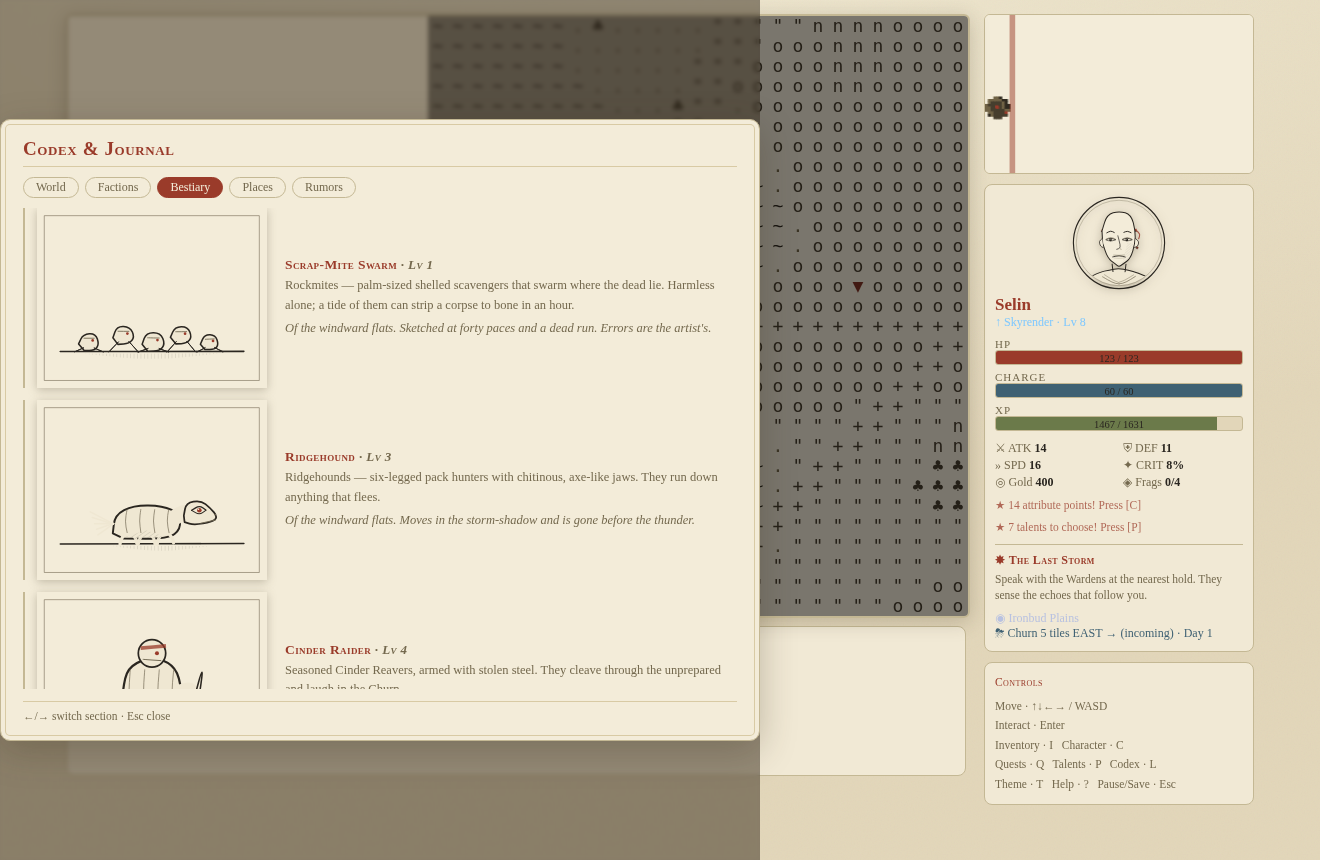
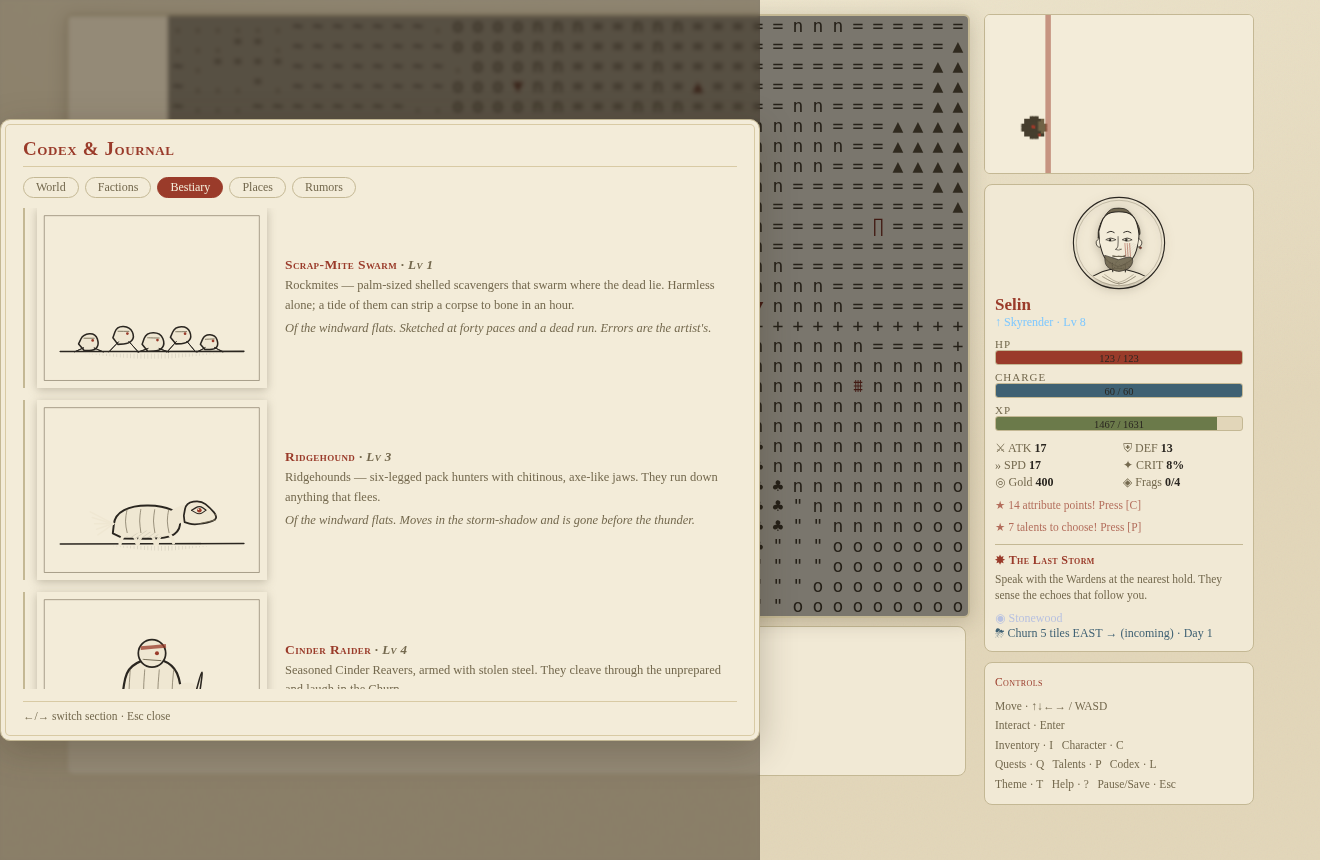
Character appearance: a premade-look gallery in creation
New "Choose your face" step in character creation, between Order and
weapon. It presents a gallery of premade generative looks the player
picks from, with options to customise the set:

- Eight premade portrait options per set, drawn from the generative ink
  engine in the chosen Order's role/accent; a large live preview of the
  selection.
- Controls: presentation (Either / Feminine / Masculine), age (Any /
  Young / Prime / Weathered / Old), and "↻ More faces" to reroll a fresh
  set. Keyboard (←/→ pick, F look, G age, Tab reroll, Enter confirm) and
  full touch (tap a face to select, on-screen Look/Age/reroll/Confirm).
- The chosen look is stored on the player as { seed, fem, age } and now
  drives every portrait — HUD frontispiece, character sheet, dialogue —
  and persists through saves; the name step previews it too.

Wiring: player.look + portrait helpers (ui.heroPortrait, screens
playerPortrait) read it; chargen steps renumbered (order, appearance,
weapon, name) with _cursorRef + touch updated; styles for the gallery.
Tests updated for the extra step (+ assertions that the gallery shows
and a face can be picked by key and by tap). All suites green: 837
logic, full browser, mobile, zero console errors. look-shots.js
captures the gallery.

Claude-Session: https://claude.ai/code/session_012JuAjoBx2YqM5W9EUw89GY

diff --git a/src/screens.js b/src/screens.js
@@ -72,7 +72,7 @@
     const o = this.overlay; if (!o) return null;
     if (o.type === 'chargen') {
       if (o.step === 0) return { get: function () { return o.orderIdx; }, set: function (v) { o.orderIdx = v; } };
-      if (o.step === 1) return { get: function () { return o.weaponIdx; }, set: function (v) { o.weaponIdx = v; } };
+      if (o.step === 2) return { get: function () { return o.weaponIdx; }, set: function (v) { o.weaponIdx = v; } };
       return null;
     }
     if (typeof o.cursor === 'number') return { get: function () { return o.cursor; }, set: function (v) { o.cursor = v; } };
@@ -152,8 +152,9 @@
     return TLU.Art.portrait(seed, opts || {});
   }
   function playerPortrait(p, opts) {
-    return portraitSVG(p.artSeed || p.name, Object.assign({
-      role: ORDER_ROLE[p.orderId] || 'explorer', accent: '#9a3b2a', fem: p.fem, age: 'prime',
+    const look = p.look || { seed: p.artSeed || p.name, fem: p.fem, age: 'prime' };
+    return portraitSVG(look.seed, Object.assign({
+      role: ORDER_ROLE[p.orderId] || 'explorer', accent: '#9a3b2a', fem: look.fem, age: look.age || 'prime',
     }, opts || {}));
   }
   function companionPortrait(c, opts) {
@@ -163,6 +164,23 @@
   function npcPortrait(npc, opts) {
     return portraitSVG('npc:' + npc.name + ':' + npc.archKey, Object.assign({ role: ARCH_ROLE[npc.archKey] || 'folk', accent: npc.arch.color }, opts || {}));
   }
+  // build the gallery of premade looks for chargen, given current options
+  function lookOptions(o) {
+    const orderKey = o.orderKeys[o.orderIdx];
+    const role = ORDER_ROLE[orderKey] || 'channeler';
+    const accent = TLU.LORE.orders[orderKey].color;
+    const AGES = ['young', 'prime', 'prime', 'weathered', 'old'];
+    const out = [];
+    for (let i = 0; i < 8; i++) {
+      const seed = 'look:' + o.seedStr + ':' + o.lookSet + ':' + i;
+      const r = new TLU.RNG(seed + ':meta');
+      const fem = o.lookPres === 'fem' ? true : o.lookPres === 'masc' ? false : r.chance(0.5);
+      const age = o.lookAge === 'any' ? r.pick(AGES) : o.lookAge;
+      out.push({ seed: seed, fem: fem, age: age, role: role, accent: accent });
+    }
+    return out;
+  }
+
   // give a companion a generated face's traits so its bio matches the drawing
   function companionTraits(c) {
     const role = TLU.Art.PORTRAIT_ROLES[c.role] ? c.role : 'folk';
@@ -228,10 +246,36 @@
           '<div class="cg-ord-desc">' + esc(lore.desc || ord.blurb) + '</div>' +
           '<div class="cg-ord-att">✦ Attunements · ' + ord.attune.join(' &amp; ') + '</div></div></div>';
       } else if (o.step === 1) {
+        // ---- Appearance: a gallery of premade looks ----
+        body += '<div class="cg-q">Choose your face.</div>';
+        const looks = lookOptions(o);
+        if (o.lookIdx >= looks.length) o.lookIdx = 0;
+        const sel = looks[o.lookIdx];
+        const big = portraitSVG(sel.seed, { role: sel.role, accent: sel.accent, fem: sel.fem, age: sel.age });
+        body += '<div class="cg-look"><div class="cg-look-big pf">' + big + '</div>';
+        body += '<div class="cg-look-side">';
+        const presLabel = { any: 'Either', fem: 'Feminine', masc: 'Masculine' }[o.lookPres];
+        const ageLabel = { any: 'Any age', young: 'Young', prime: 'Prime', weathered: 'Weathered', old: 'Old' }[o.lookAge];
+        body += '<div class="cg-look-ctrl touch-btn" data-key="f">Look · <b>' + presLabel + '</b></div>';
+        body += '<div class="cg-look-ctrl touch-btn" data-key="g">Age · <b>' + ageLabel + '</b></div>';
+        body += '<div class="cg-look-ctrl touch-btn" data-key="Tab">↻ More faces</div>';
+        body += '<div class="cg-look-ctrl cg-confirm touch-btn" data-key="Enter">Confirm ▸</div>';
+        body += '</div></div>';
+        body += '<div class="cg-look-grid">';
+        looks.forEach(function (lk, i) {
+          const th = portraitSVG(lk.seed, { role: lk.role, accent: lk.accent, fem: lk.fem, age: lk.age, ring: true });
+          body += '<div class="cg-thumb' + (i === o.lookIdx ? ' sel' : '') + '" data-look="' + i + '">' + th + '</div>';
+        });
+        body += '</div>';
+        body += '<div class="menu-foot">←/→ pick a face · [F] look · [G] age · [Tab] reroll · Enter confirm</div>';
+      } else if (o.step === 2) {
         body += '<div class="cg-q">Choose your weapon focus:</div>';
         body += UI.renderMenu({ items: o.weapons.map(function (w) { return { label: w[1] }; }), cursor: o.weaponIdx });
       } else {
         body += '<div class="cg-q">Your name, Kindled?</div>';
+        const sel2 = o.look || lookOptions(o)[o.lookIdx];
+        body += '<div class="folio-figrow" style="justify-content:center"><div class="pf pf-sm">' +
+          portraitSVG(sel2.seed, { role: sel2.role, accent: sel2.accent, fem: sel2.fem, age: sel2.age }) + '</div></div>';
         body += '<div class="cg-name">' + esc(o.name) + ' <span class="dimk">(Tab to reroll)</span></div>';
         const ord = TLU.LORE.orders[o.orderKeys[o.orderIdx]];
         body += '<div class="cg-summary">' + ord.glyph + ' ' + ord.name + ' · ' + o.weapons[o.weaponIdx][1] + '</div>';
@@ -246,14 +290,27 @@
         menuNav({ get cursor() { return o.orderIdx; }, set cursor(v) { o.orderIdx = v; } }, k, o.orderKeys.length,
           function () { o.step = 1; }, function () { g.openTitle(); });
       } else if (o.step === 1) {
+        // appearance gallery
+        const N = 8;
+        if (k === 'ArrowLeft' || k === 'a' || k === 'h') o.lookIdx = (o.lookIdx + N - 1) % N;
+        else if (k === 'ArrowRight' || k === 'd' || k === 'l') o.lookIdx = (o.lookIdx + 1) % N;
+        else if (k === 'ArrowUp' || k === 'w') o.lookIdx = (o.lookIdx + N - 4) % N;
+        else if (k === 'ArrowDown' || k === 's') o.lookIdx = (o.lookIdx + 4) % N;
+        else if (k === 'f' || k === 'F') o.lookPres = { any: 'fem', fem: 'masc', masc: 'any' }[o.lookPres];
+        else if (k === 'g' || k === 'G') o.lookAge = { any: 'young', young: 'prime', prime: 'weathered', weathered: 'old', old: 'any' }[o.lookAge];
+        else if (k === 'Tab') { o.lookSet++; }
+        else if (k === 'Enter' || k === ' ') { o.look = lookOptions(o)[o.lookIdx]; o.step = 2; }
+        else if (k === 'Escape') { o.step = 0; }
+      } else if (o.step === 2) {
         menuNav({ get cursor() { return o.weaponIdx; }, set cursor(v) { o.weaponIdx = v; } }, k, o.weapons.length,
-          function () { o.step = 2; }, function () { o.step = 0; });
+          function () { o.step = 3; }, function () { o.step = 1; });
       } else {
         if (k === 'Tab') { o.name = TLU.genName(new TLU.RNG('name' + Math.floor(performance.now()))); }
         else if (k === 'Enter' || k === ' ') {
-          g.beginGame({ seed: o.seedStr, name: o.name, order: o.orderKeys[o.orderIdx], weaponSkill: o.weapons[o.weaponIdx][0] });
+          if (!o.look) o.look = lookOptions(o)[o.lookIdx];
+          g.beginGame({ seed: o.seedStr, name: o.name, order: o.orderKeys[o.orderIdx], weaponSkill: o.weapons[o.weaponIdx][0], look: { seed: o.look.seed, fem: o.look.fem, age: o.look.age } });
           return;
-        } else if (k === 'Escape') o.step = 1;
+        } else if (k === 'Escape') o.step = 2;
       }
       g.render();
     },

diff --git a/test/look-shots.js b/test/look-shots.js
@@ -1,0 +1,33 @@
+/* Capture the character-appearance gallery (chargen step 1). */
+const { chromium } = require('playwright-core');
+const http = require('http');
+const fs = require('fs');
+const path = require('path');
+const ROOT = path.join(__dirname, '..');
+const MIME = { '.html': 'text/html', '.js': 'text/javascript', '.css': 'text/css', '.png': 'image/png' };
+function serve() { return new Promise((r) => { const s = http.createServer((req, res) => { let p = decodeURIComponent(req.url.split('?')[0]); if (p === '/') p = '/index.html'; const fp = path.join(ROOT, p); if (!fp.startsWith(ROOT) || !fs.existsSync(fp)) { res.writeHead(404); res.end(); return; } res.writeHead(200, { 'Content-Type': MIME[path.extname(fp)] || 'text/plain' }); res.end(fs.readFileSync(fp)); }); s.listen(0, () => r(s)); }); }
+const OUT = path.join(ROOT, 'assets', 'design');
+
+(async () => {
+  const srv = await serve(); const port = srv.address().port;
+  const browser = await chromium.launch({ executablePath: '/opt/pw-browsers/chromium-1194/chrome-linux/chrome', args: ['--no-sandbox'] });
+  const page = await browser.newPage({ viewport: { width: 1100, height: 760 }, deviceScaleFactor: 2 });
+  const errs = []; page.on('pageerror', e => errs.push(e.message)); page.on('console', m => { if (m.type() === 'error') errs.push(m.text()); });
+  await page.goto(`http://localhost:${port}/index.html`, { waitUntil: 'networkidle' });
+  await page.evaluate(() => localStorage.clear());
+  await page.reload({ waitUntil: 'networkidle' });
+  await page.waitForTimeout(200);
+
+  // jump to chargen, appearance step
+  await page.evaluate(() => { window.GAME.startChargen(); window.GAME.overlay.step = 1; window.GAME.render(); });
+  await page.waitForTimeout(150);
+  await page.screenshot({ path: path.join(OUT, 'look-gallery.png') });
+
+  // a different Order + feminine preset + a different selected face
+  await page.evaluate(() => { const o = window.GAME.overlay; o.orderIdx = 3; o.lookPres = 'fem'; o.lookIdx = 5; window.GAME.render(); });
+  await page.waitForTimeout(120);
+  await page.screenshot({ path: path.join(OUT, 'look-gallery2.png') });
+
+  console.log(errs.length ? ('ERRORS:\n' + errs.slice(0, 8).join('\n')) : 'no errors');
+  await browser.close(); srv.close();
+})().catch(e => { console.error(e); process.exit(1); });

diff --git a/styles.css b/styles.css
@@ -430,3 +430,19 @@ body.theme-folio .annals-code { background:#efe7d0; }
 .cg-ord-tag { color:var(--dim); font-style:italic; font-size:13px; margin-top:1px; }
 .cg-ord-desc { font-size:14px; line-height:1.5; margin-top:7px; }
 .cg-ord-att { margin-top:9px; font-size:13px; color:var(--storm); font-variant:small-caps; letter-spacing:.5px; }
+
+/* ---- appearance gallery (chargen step) ---- */
+.cg-look { display:flex; gap:18px; align-items:center; justify-content:center; margin:10px 0 6px; }
+.cg-look-big { width:150px; flex:none; }
+.cg-look-big .tlu-portrait { width:150px; }
+.cg-look-side { display:flex; flex-direction:column; gap:8px; min-width:160px; }
+.cg-look-ctrl { border:1px solid var(--border); border-radius:8px; padding:6px 12px; font-size:13px;
+  color:var(--dim); cursor:pointer; text-align:left; background:var(--panel); user-select:none; }
+.cg-look-ctrl b { color:var(--ink); }
+.cg-look-ctrl:hover { border-color:var(--gold); }
+.cg-confirm { text-align:center; color:var(--gold); font-variant:small-caps; letter-spacing:1px; border-color:var(--gold); }
+.cg-look-grid { display:grid; grid-template-columns:repeat(8, 1fr); gap:6px; margin:8px auto 4px; max-width:560px; }
+.cg-thumb { border:2px solid transparent; border-radius:8px; cursor:pointer; overflow:hidden; line-height:0; }
+.cg-thumb .tlu-portrait { width:100%; }
+.cg-thumb.sel { border-color:var(--gold); background:rgba(154,59,42,.12); }
+@media (max-width:560px){ .cg-look-grid { grid-template-columns:repeat(4, 1fr); } .cg-look { flex-direction:column; } }

diff --git a/src/player.js b/src/player.js
@@ -15,9 +15,16 @@
       name: opts.name || 'Wanderer',
       orderId: opts.order || 'skyrender',
       order: order,
-      // stable seed for the generative ink portrait — outlives saves
-      artSeed: (opts.name || 'Wanderer') + '|' + (opts.order || 'skyrender') + '|' + (opts.seed || ''),
-      fem: new TLU.RNG('fem:' + (opts.name || 'Wanderer') + (opts.seed || '')).chance(0.5),
+      // chosen appearance for the generative ink portrait (outlives saves).
+      // look = { seed, fem, age }; falls back to a name-derived default.
+      look: opts.look || {
+        seed: (opts.name || 'Wanderer') + '|' + (opts.order || 'skyrender') + '|' + (opts.seed || ''),
+        fem: new TLU.RNG('fem:' + (opts.name || 'Wanderer') + (opts.seed || '')).chance(0.5),
+        age: 'prime',
+      },
+      // legacy alias kept for older saves / call sites
+      artSeed: (opts.look && opts.look.seed) || ((opts.name || 'Wanderer') + '|' + (opts.order || 'skyrender') + '|' + (opts.seed || '')),
+      fem: opts.look ? !!opts.look.fem : new TLU.RNG('fem:' + (opts.name || 'Wanderer') + (opts.seed || '')).chance(0.5),
       level: 1, xp: 0, xpNext: TLU.Skills.levelXpFor(1),
       // core attributes (raised on level-up)
       attr: { might: 5, finesse: 5, focus: 5, endurance: 5 },

diff --git a/src/touch.js b/src/touch.js
@@ -76,6 +76,9 @@
       if (target.closest('[data-skip]')) game.endIntro(); else game.advanceIntro();
       return true;
     }
+    // chargen appearance gallery: tap a face to select it
+    const lk = target.closest('[data-look]');
+    if (lk && game.overlay) { game.overlay.lookIdx = parseInt(lk.getAttribute('data-look'), 10); game.render(); return true; }
     const mi = target.closest('[data-mi]');
     if (mi && !mi.classList.contains('disabled')) { game.touchMenuSelect(parseInt(mi.getAttribute('data-mi'), 10)); return true; }
     const tab = target.closest('.cx-tab[data-cxtab]');
@@ -84,7 +87,7 @@
     if (en) { game.touchEnemy(parseInt(en.getAttribute('data-eidx'), 10)); return true; }
     // tap-to-advance for text screens (dialog, help, chargen name step)
     const o = game.overlay;
-    if (o && (o.type === 'dialog' || o.type === 'help' || o.type === 'landmark' || o.type === 'echo' || (o.type === 'chargen' && o.step === 2))) { game.key('Enter'); return true; }
+    if (o && (o.type === 'dialog' || o.type === 'help' || o.type === 'landmark' || o.type === 'echo' || (o.type === 'chargen' && o.step === 3))) { game.key('Enter'); return true; }
     return false;
   }
 

diff --git a/src/game.js b/src/game.js
@@ -59,6 +59,8 @@
       name: TLU.genName(new TLU.RNG('name' + this.turnCount)),
       orderKeys: Object.keys(TLU.LORE.orders),
       orderIdx: 0,
+      // appearance step: a gallery of premade looks + options
+      lookSet: 0, lookIdx: 0, lookPres: 'any', lookAge: 'any', look: null,
       weapons: [['blades', 'Sword & Dagger'], ['blunt', 'Mace & Hammer'], ['polearm', 'Spear & Glaive'], ['archery', 'Bow']],
       weaponIdx: 0,
       seedStr: 'aurenmark-' + (Math.floor(performance.now()) ^ 0x5bd1e995),
@@ -68,7 +70,7 @@
   Game.prototype.beginGame = function (cfg) {
     this.seed = cfg.seed;
     this.world = TLU.World.generate(cfg.seed, {});
-    this.player = TLU.Player.newPlayer({ name: cfg.name, order: cfg.order, weaponSkill: cfg.weaponSkill, seed: cfg.seed });
+    this.player = TLU.Player.newPlayer({ name: cfg.name, order: cfg.order, weaponSkill: cfg.weaponSkill, seed: cfg.seed, look: cfg.look });
     const p = this.player;
     p.wx = this.world.start.x; p.wy = this.world.start.y;
     this.mode = 'world'; this.state = 'play'; this.overlay = null;

diff --git a/test/mobile.js b/test/mobile.js
@@ -66,7 +66,10 @@ function serve() {
   ok('intro cinematic via tap', (await page.locator('.cine').count()) > 0);
   await tap('.cine-skip');                          // skip the cinematic -> chargen
   ok('chargen reached via tap', (await page.evaluate(() => window.GAME.state)) === 'chargen');
-  await tap('.menu-item[data-mi="1"]');            // choose 2nd Order
+  await tap('.menu-item[data-mi="1"]');            // choose 2nd Order -> appearance
+  await tap('.cg-thumb[data-look="2"]');           // tap a premade face
+  ok('appearance pick via tap', (await page.evaluate(() => window.GAME.overlay.lookIdx)) === 2);
+  await tap('.cg-confirm');                         // confirm face -> weapon
   await tap('.menu-item[data-mi="0"]');            // choose 1st weapon
   // name step has no list -> tap the panel to advance/begin
   await page.locator('.title-screen').first().dispatchEvent('click');

diff --git a/test/browser.js b/test/browser.js
@@ -63,8 +63,11 @@ function serve() {
   await press('Enter'); await press('Enter');    // advance a couple of beats
   await press('Escape');                         // skip the rest -> chargen
   ok('chargen shows', (await title()).includes('Kindled'));
-  await press('ArrowDown'); await press('Enter'); // order
-  await press('Enter');                           // weapon
+  await press('ArrowDown'); await press('Enter'); // order -> appearance
+  ok('appearance gallery shows', (await page.locator('.cg-look-grid').count()) > 0);
+  await press('ArrowRight');                      // pick a different premade face
+  await press('Enter');                           // confirm face -> weapon
+  await press('Enter');                           // weapon -> name
   await press('Enter');                           // name -> begin
   await page.waitForTimeout(150);
   const s1 = await state();

diff --git a/test/theme-shots.js b/test/theme-shots.js
@@ -15,9 +15,9 @@ function serve() { return new Promise((r) => { const s = http.createServer((req,
   await page.evaluate(() => localStorage.clear());
   await page.reload({ waitUntil: 'networkidle' });
   await page.waitForTimeout(250);
-  // new game: New Game -> skip intro -> chargen
+  // new game: New Game -> skip intro -> chargen (order, appearance, weapon, name)
   await press('Enter'); await press('Escape');
-  await press('ArrowDown'); await press('Enter'); await press('Enter');
+  await press('ArrowDown'); await press('Enter'); await press('Enter'); await press('Enter');
   await page.locator('.title-screen').first().dispatchEvent('click'); await page.waitForTimeout(150);
   // explore + resolve any combat for a lived-in scene
   for (let i = 0; i < 22; i++) { await page.keyboard.press(['ArrowRight','ArrowDown','ArrowRight','ArrowUp'][i % 4]); await page.waitForTimeout(16);

diff --git a/src/ui.js b/src/ui.js
@@ -37,9 +37,10 @@
   const _portCache = {};
   function heroPortrait(p) {
     if (!TLU.Art || !TLU.Art.portrait) return '';
-    const key = (p.artSeed || p.name) + '|' + p.level;
+    const look = p.look || { seed: p.artSeed || p.name, fem: p.fem, age: 'prime' };
+    const key = look.seed + '|' + look.fem + '|' + (look.age || 'prime') + '|' + p.orderId + '|' + p.level;
     if (_portCache[key]) return _portCache[key];
-    const svg = TLU.Art.portrait(p.artSeed || p.name, { role: ORDER_ROLE[p.orderId] || 'explorer', accent: '#9a3b2a', fem: p.fem, age: 'prime' });
+    const svg = TLU.Art.portrait(look.seed, { role: ORDER_ROLE[p.orderId] || 'explorer', accent: '#9a3b2a', fem: look.fem, age: look.age || 'prime' });
     _portCache[key] = svg;
     return svg;
   }

diff --git a/test/folio-shots.js b/test/folio-shots.js
@@ -30,9 +30,9 @@ const OUT = path.join(ROOT, 'assets', 'design');
   await page.evaluate(() => localStorage.clear());
   await page.reload({ waitUntil: 'networkidle' });
   await page.waitForTimeout(300);
-  // new game: New Game -> skip intro cinematic -> chargen (order, weapon, name)
+  // new game: New Game -> skip intro -> chargen (order, appearance, weapon, name)
   await press('Enter'); await press('Escape');
-  await press('Enter'); await press('Enter');
+  await press('Enter'); await press('Enter'); await press('Enter');
   await page.locator('.title-screen').first().dispatchEvent('click').catch(() => {});
   await page.waitForTimeout(200);
   // set up a lived-in hero

diff --git a/README.md b/README.md
@@ -184,6 +184,10 @@ or fill the **Codex** bestiary to see it. A standalone gallery lives at `design/
   world and frames you as a tiny figure within it, then resolves into the choosing of an
   Order — narration fading in over generative dusk vistas (`src/art/scenes.js`). Replay it
   any time from the title's **The Tale**.
+- **Choose your face.** Character creation includes an appearance gallery — a row of
+  premade looks to pick from, with **reroll** for fresh sets and **presentation** / **age**
+  toggles. Your choice drives the generative ink portrait everywhere it appears (the HUD,
+  the character sheet, dialogue), and persists with your save and your dynasty.
 - **Procedural open world.** A value-noise continent with nine biomes, holds (towns),
   drowned Riftvaults, reaver camps, roads, the roaming Churn, and a far-eastern danger gradient —
   every world is reproducible from its seed.
